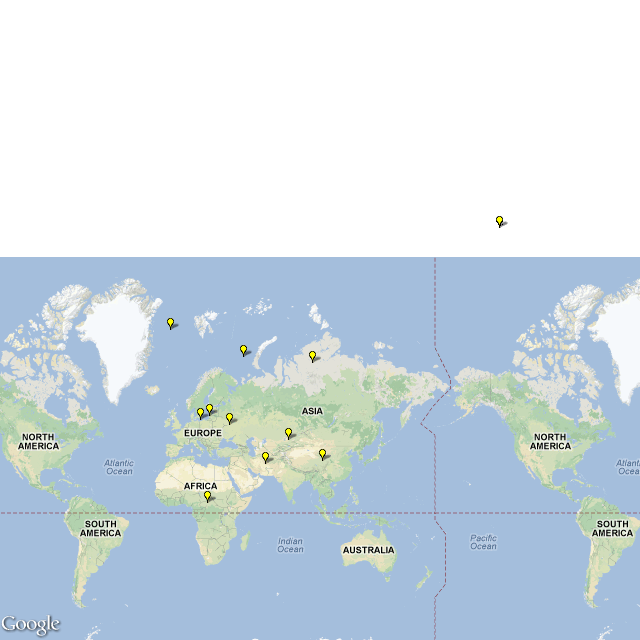
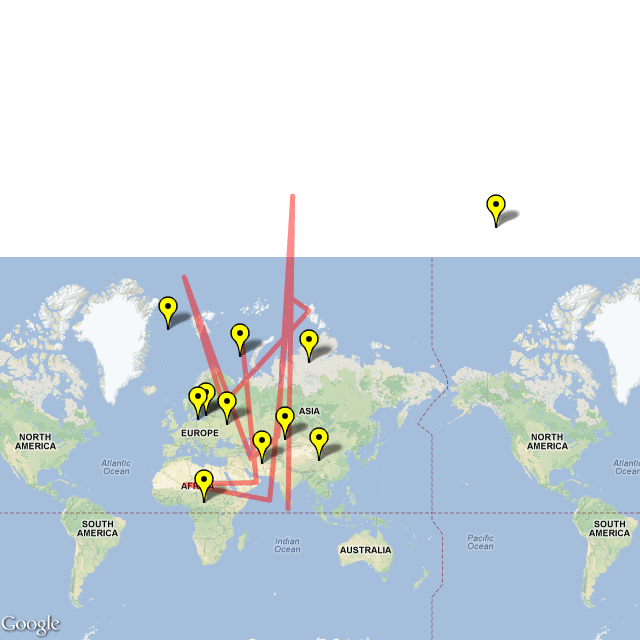
almost but not quite. path liiga yolo

diff --git a/trunk/ tsp-project-algorithm-course/TSP_Project/src/Maps.py b/trunk/ tsp-project-algorithm-course/TSP_Project/src/Maps.py
@@ -3,6 +3,56 @@ import os
 #import cStringIO
 #import Image
 
+def encode_coords(coords):
+    '''Encodes a polyline using Google's polyline algorithm
+    
+    See http://code.google.com/apis/maps/documentation/polylinealgorithm.html 
+    for more information.
+    
+    :param coords: Coordinates to transform (list of tuples in order: latitude, 
+    longitude).
+    :type coords: list
+    :returns: Google-encoded polyline string.
+    :rtype: string    
+    '''
+    
+    result = []
+    
+    prev_lat = 0
+    prev_lng = 0
+    
+    for x, y in coords:        
+        lat, lng = int(y * 1e5), int(x * 1e5)
+        
+        d_lat = _encode_value(lat - prev_lat)
+        d_lng = _encode_value(lng - prev_lng)        
+        
+        prev_lat, prev_lng = lat, lng
+        
+        result.append(d_lat)
+        result.append(d_lng)
+    
+    return ''.join(c for r in result for c in r)
+    
+def _split_into_chunks(value):
+    while value >= 32: #2^5, while there are at least 5 bits
+        
+        # first & with 2^5-1, zeros out all the bits other than the first five
+        # then OR with 0x20 if another bit chunk follows
+        yield (value & 31) | 0x20 
+        value >>= 5
+    yield value
+ 
+def _encode_value(value):
+    # Step 2 & 4
+    value = ~(value << 1) if value < 0 else (value << 1)
+    
+    # Step 5 - 8
+    chunks = _split_into_chunks(value)
+    
+    # Step 9-10
+    return (chr(chunk + 63) for chunk in chunks)
+
 def get_coordinates_list(filename):
     
     lines = []
@@ -13,7 +63,7 @@ def get_coordinates_list(filename):
     return lines
 
 def get_map_with_coordinates(filename, zoom=None, imgsize="500x500", imgformat="jpeg",
-                          maptype="roadmap", markers=None, path=None) : 
+                          maptype="roadmap", markers=None, path=None, polyline = None) : 
     
     #assembling the URL
     #base URL
@@ -29,9 +79,10 @@ def get_map_with_coordinates(filename, zoom=None, imgsize="500x500", imgformat="
             request += "%s&" % marker
     
     #draws a path between the markers
-    if path != None:
-        request += "path=color:red%s|&" % path 
-        
+    #if path != None:
+     #   request += "path=color:red|weight:5%s|&" % path 
+    request += "path=color:red|enc:%s&" % polyline
+       
     request += "sensor=false&"
            
     print(request)
@@ -54,20 +105,27 @@ def get_map_with_coordinates(filename, zoom=None, imgsize="500x500", imgformat="
 if __name__ == '__main__':
     
         marker_list = []
+        pl_coords = []
         path_list = ""
+        coordinates = ""
         path = os.getcwd()
         filename = "coordinates.txt"
         fullpath = path + "\\" + filename
         print(fullpath)
         lines = get_coordinates_list(fullpath)
-        #print(lines)
         
         #gets the coordinates for each marker and makes a string of paths to use for path
         for line in lines:
             coordinates = line.replace("/n","").split(' ')
-            formatted_coords = "%s, %s" % (coordinates[0],coordinates[1])
-            #print(formatted_coords)
+            formatted_coords = "%s,%s" % (coordinates[0],coordinates[1])
+            pl_coords.append((float(coordinates[0]),float(coordinates[1])))
             marker_list.append("markers=size:medium|color:0xFFFF00|" + formatted_coords)
-            path_list = path_list + "|" + formatted_coords
-                   
-        get_map_with_coordinates("google_map_example3", imgsize=(640,640), imgformat="png", markers=marker_list, path = path_list)
+            #path_list = path_list + "|" + formatted_coords
+        
+        print(pl_coords)
+        polyline1 = "m|vtGucnzMckl`ApllxIfoqjHd`jGsigcJtxh`A"
+        polyline2 = encode_coords(pl_coords)
+        
+        print(polyline2)
+                  
+        get_map_with_coordinates("google_map_example3", imgsize=(640,640), imgformat="png", markers=marker_list, path = path_list, polyline = polyline2)
